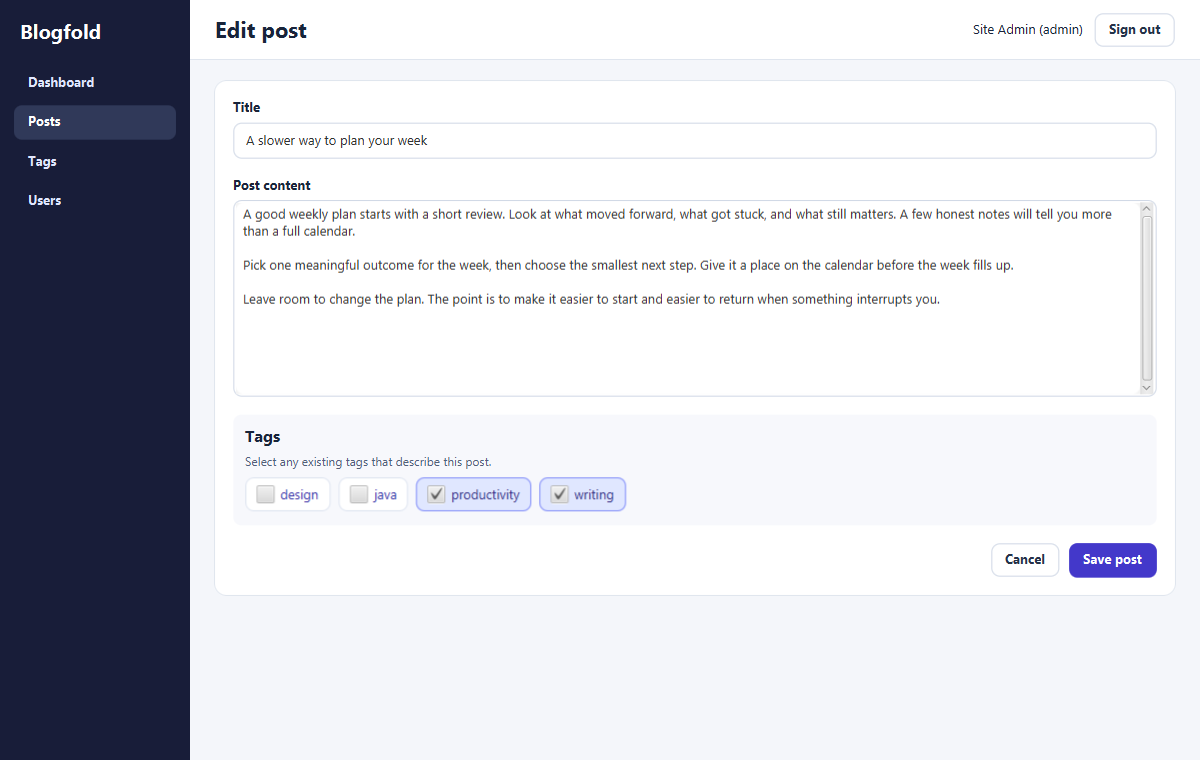
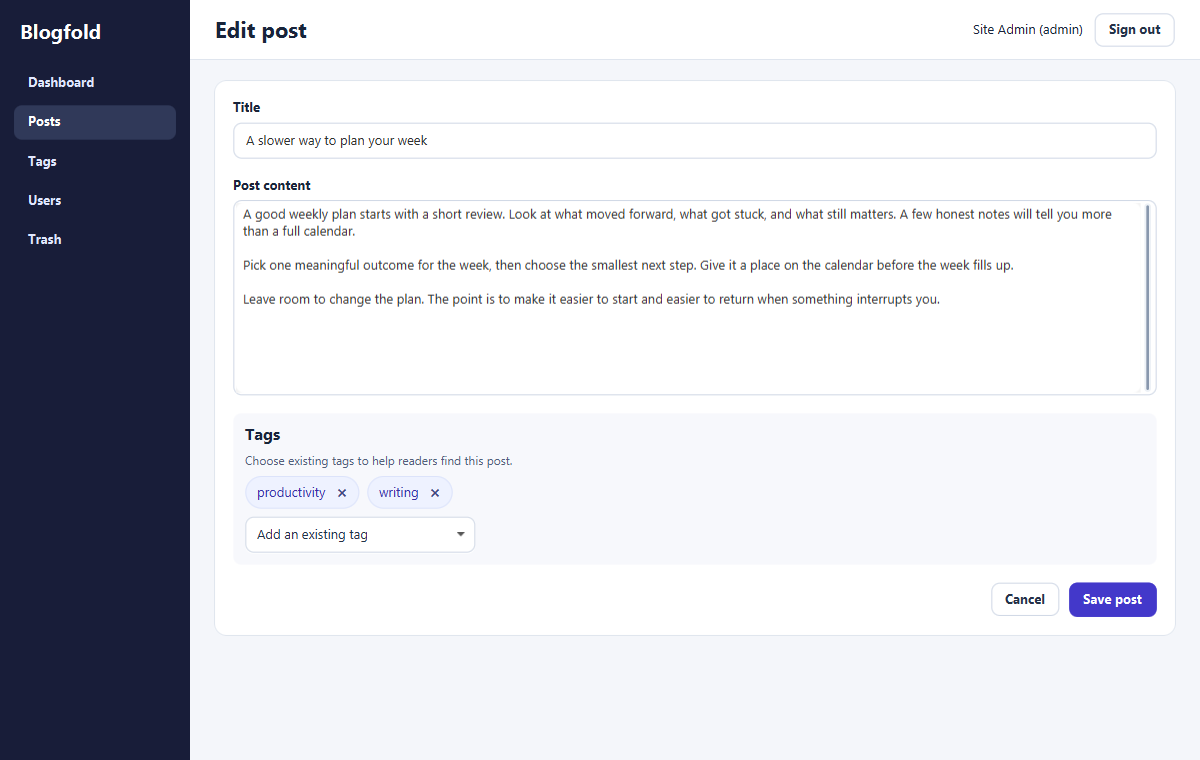
Refresh screenshots and document database upgrades

diff --git a/README.md b/README.md
@@ -39,6 +39,15 @@ Use environment variables to override the defaults in [application.properties](s
 | `DB_MONGO_URI` | `mongodb://localhost:27017/?serverSelectionTimeoutMS=3000` |
 | `DB_MONGO_DATABASE` | `blogging_platform` |
 
+### Upgrade an existing database
+
+Run these scripts once on an existing PostgreSQL database before launching this version. They preserve existing rows and can be run again. Use the same scripts with `-d blogging_platform_bench` if you already have a benchmark database.
+
+```sh
+psql -U postgres -p 5433 -d blogging_platform -v ON_ERROR_STOP=1 -f db/postgres/upgrade-account-status.sql
+psql -U postgres -p 5433 -d blogging_platform -v ON_ERROR_STOP=1 -f db/postgres/upgrade-trash.sql
+```
+
 ## Features and roles
 
 | Feature | Behavior |
@@ -48,9 +57,11 @@ Use environment variables to override the defaults in [application.properties](s
 | Comments | Read and add comments. Edit or delete your own comments. |
 | Reviews | Submit a 1–5 rating with optional text, once per user per post. See the average on the post detail screen. |
 | Dashboard | See counts of posts, users, tags, comments, and reviews, plus recent posts and tag usage. |
-| Administration | List accounts and create or delete tags. |
+| Administration | Deactivate and reactivate reader or blogger accounts, manage tags, and restore content from Trash. |
 
 Readers can browse, comment, and review. Bloggers can also create posts and edit or delete their own posts. Admins can edit or delete any post or comment and can access **Tags** and **Users**.
+
+Deactivated accounts cannot sign in or make changes from a session that is already open. Administrator accounts are protected from deactivation. In **Trash**, administrators can preview and restore posts, comments, and tags. Moving a post to Trash hides its discussion and keeps its reviews. A comment moved to Trash separately stays there until restored separately. The title of an archived post and the name of an archived tag remain reserved so they can be restored.
 
 The app checks title uniqueness when saving against an existing database. If older posts already share a title, give them distinct titles in the editor. Fresh databases also enforce uniqueness with a PostgreSQL index.
 
@@ -63,6 +74,7 @@ The screenshots use sample accounts and articles from a dedicated demo workspace
 | [Sign in](docs/screenshots/01-login.png) | [Sign up](docs/screenshots/02-sign-up.png) | [Dashboard](docs/screenshots/03-dashboard.png) |
 | [Post list](docs/screenshots/04-posts.png) | [Post details](docs/screenshots/05-post-detail.png) | [Post editor](docs/screenshots/06-post-editor.png) |
 | [Validation](docs/screenshots/07-validation.png) | [Tags](docs/screenshots/08-tags.png) | [Users](docs/screenshots/09-users.png) |
+| [Trash](docs/screenshots/10-trash.png) | | |
 
 ## Implementation and tests
 
